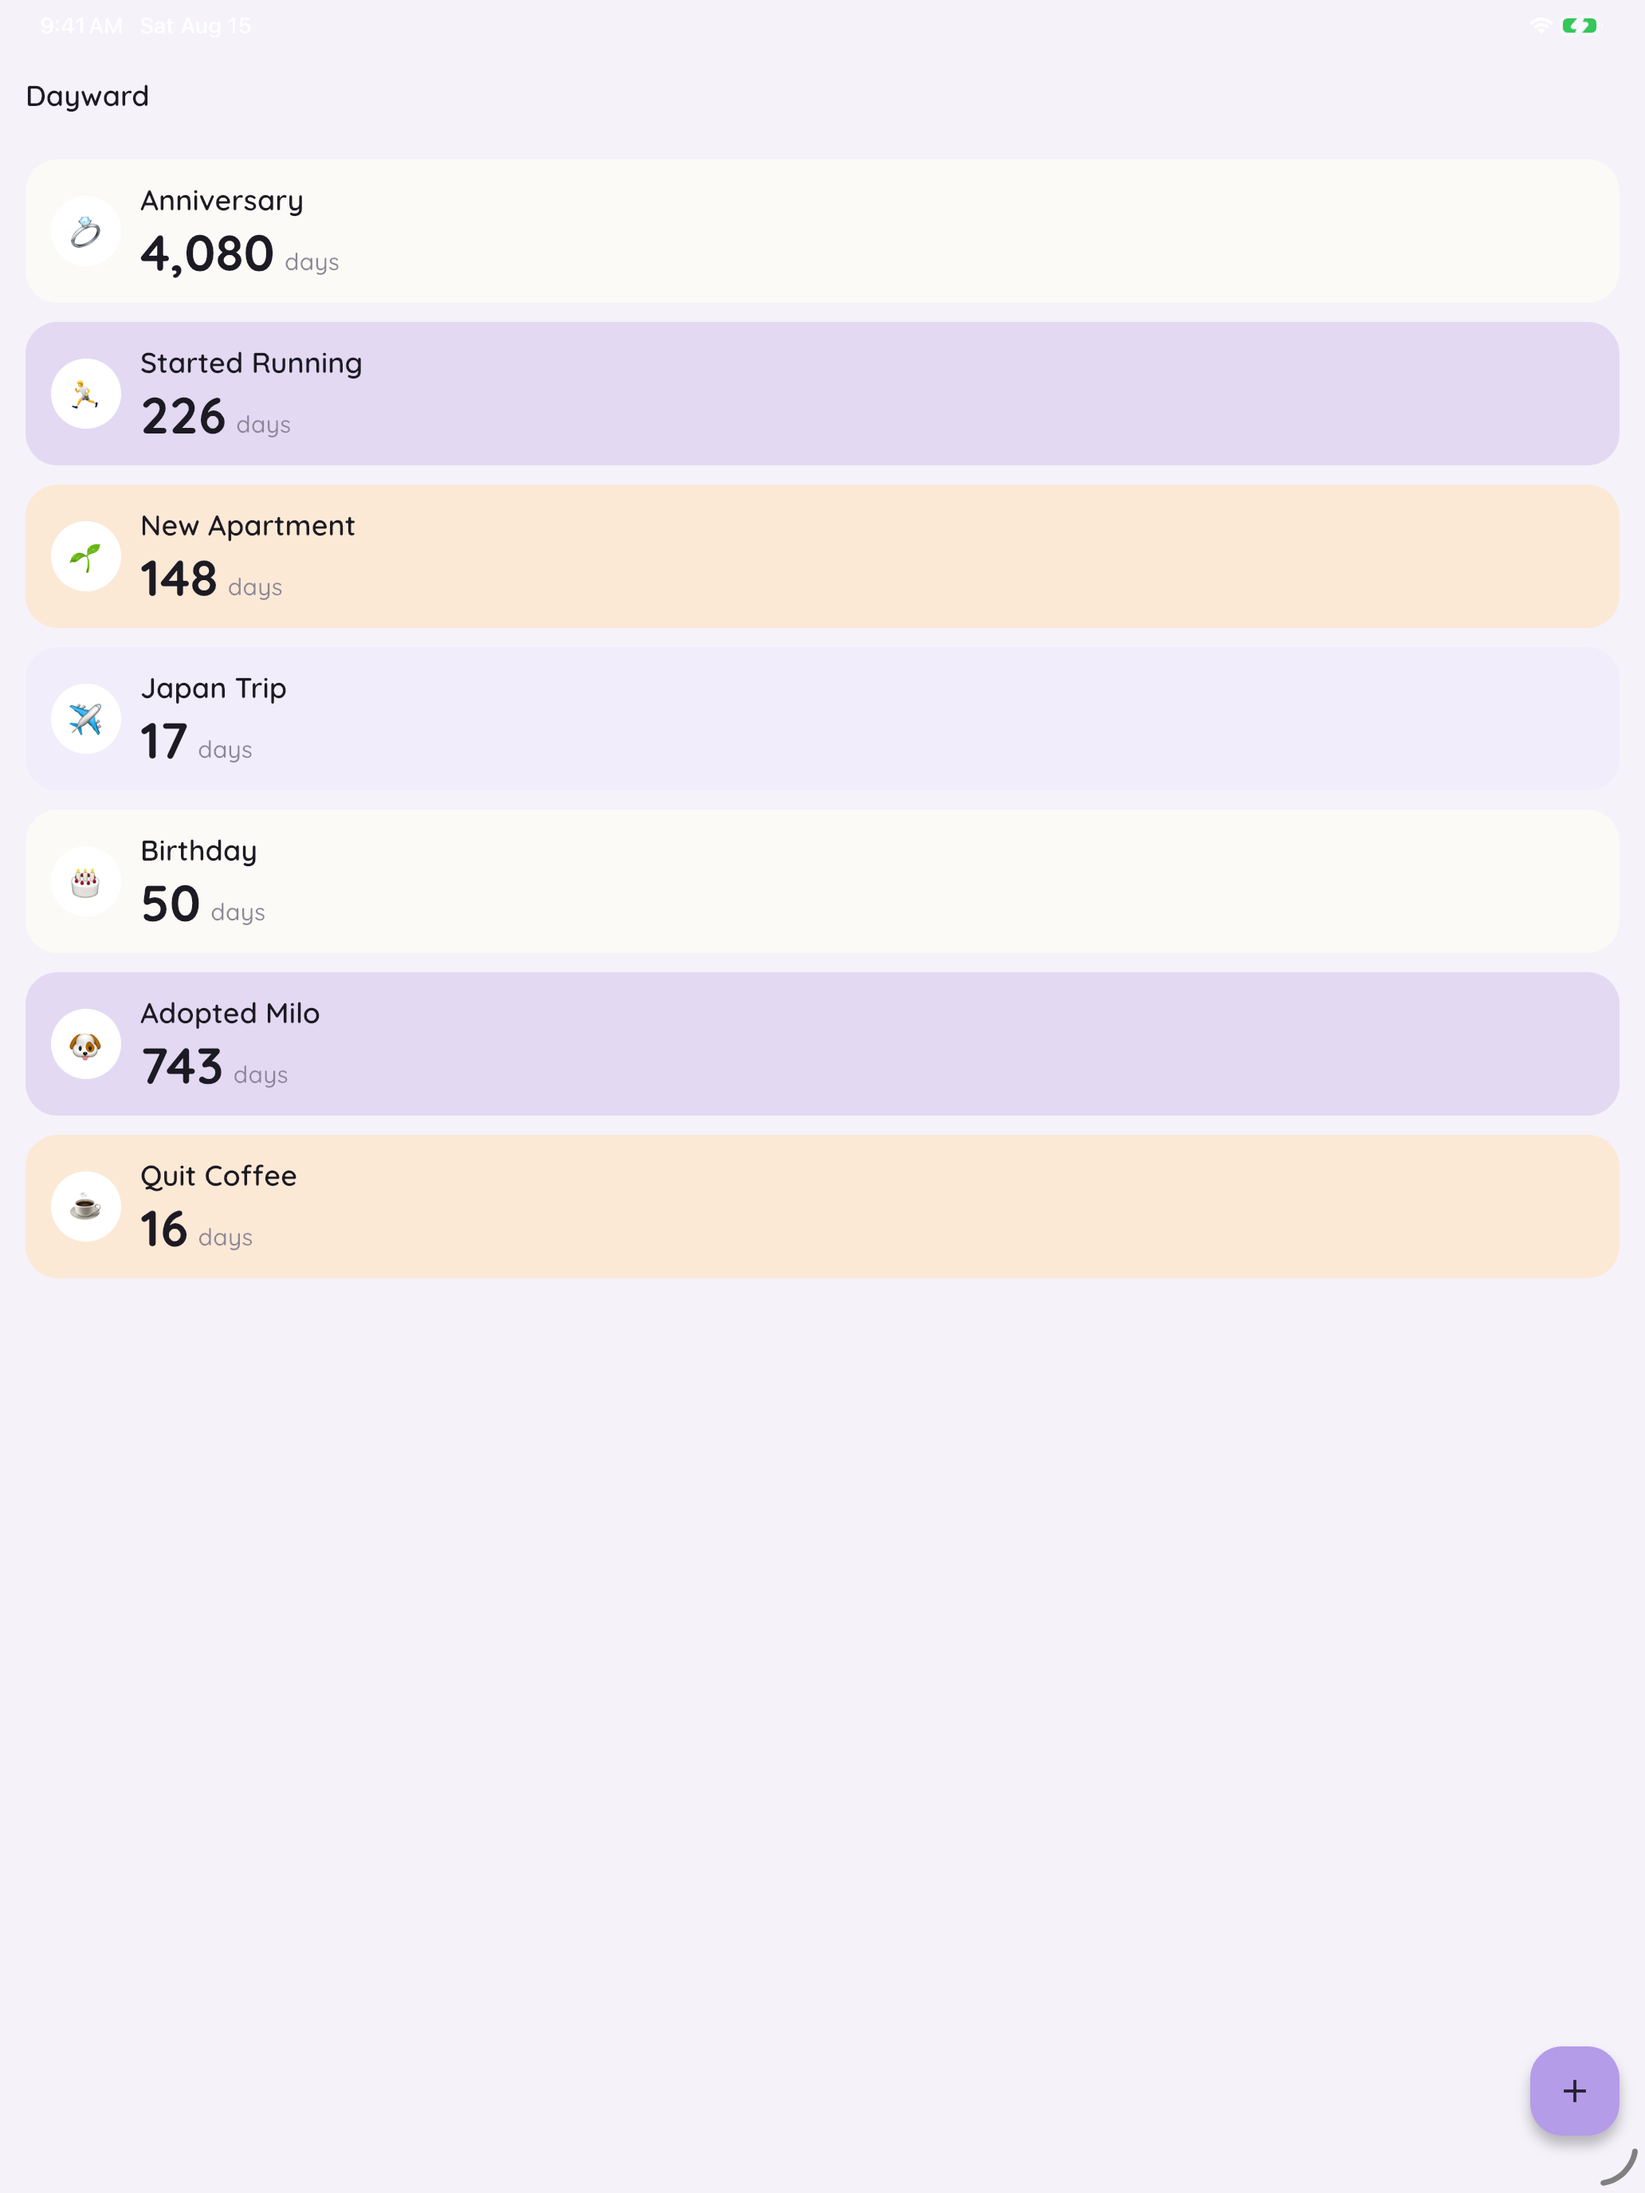
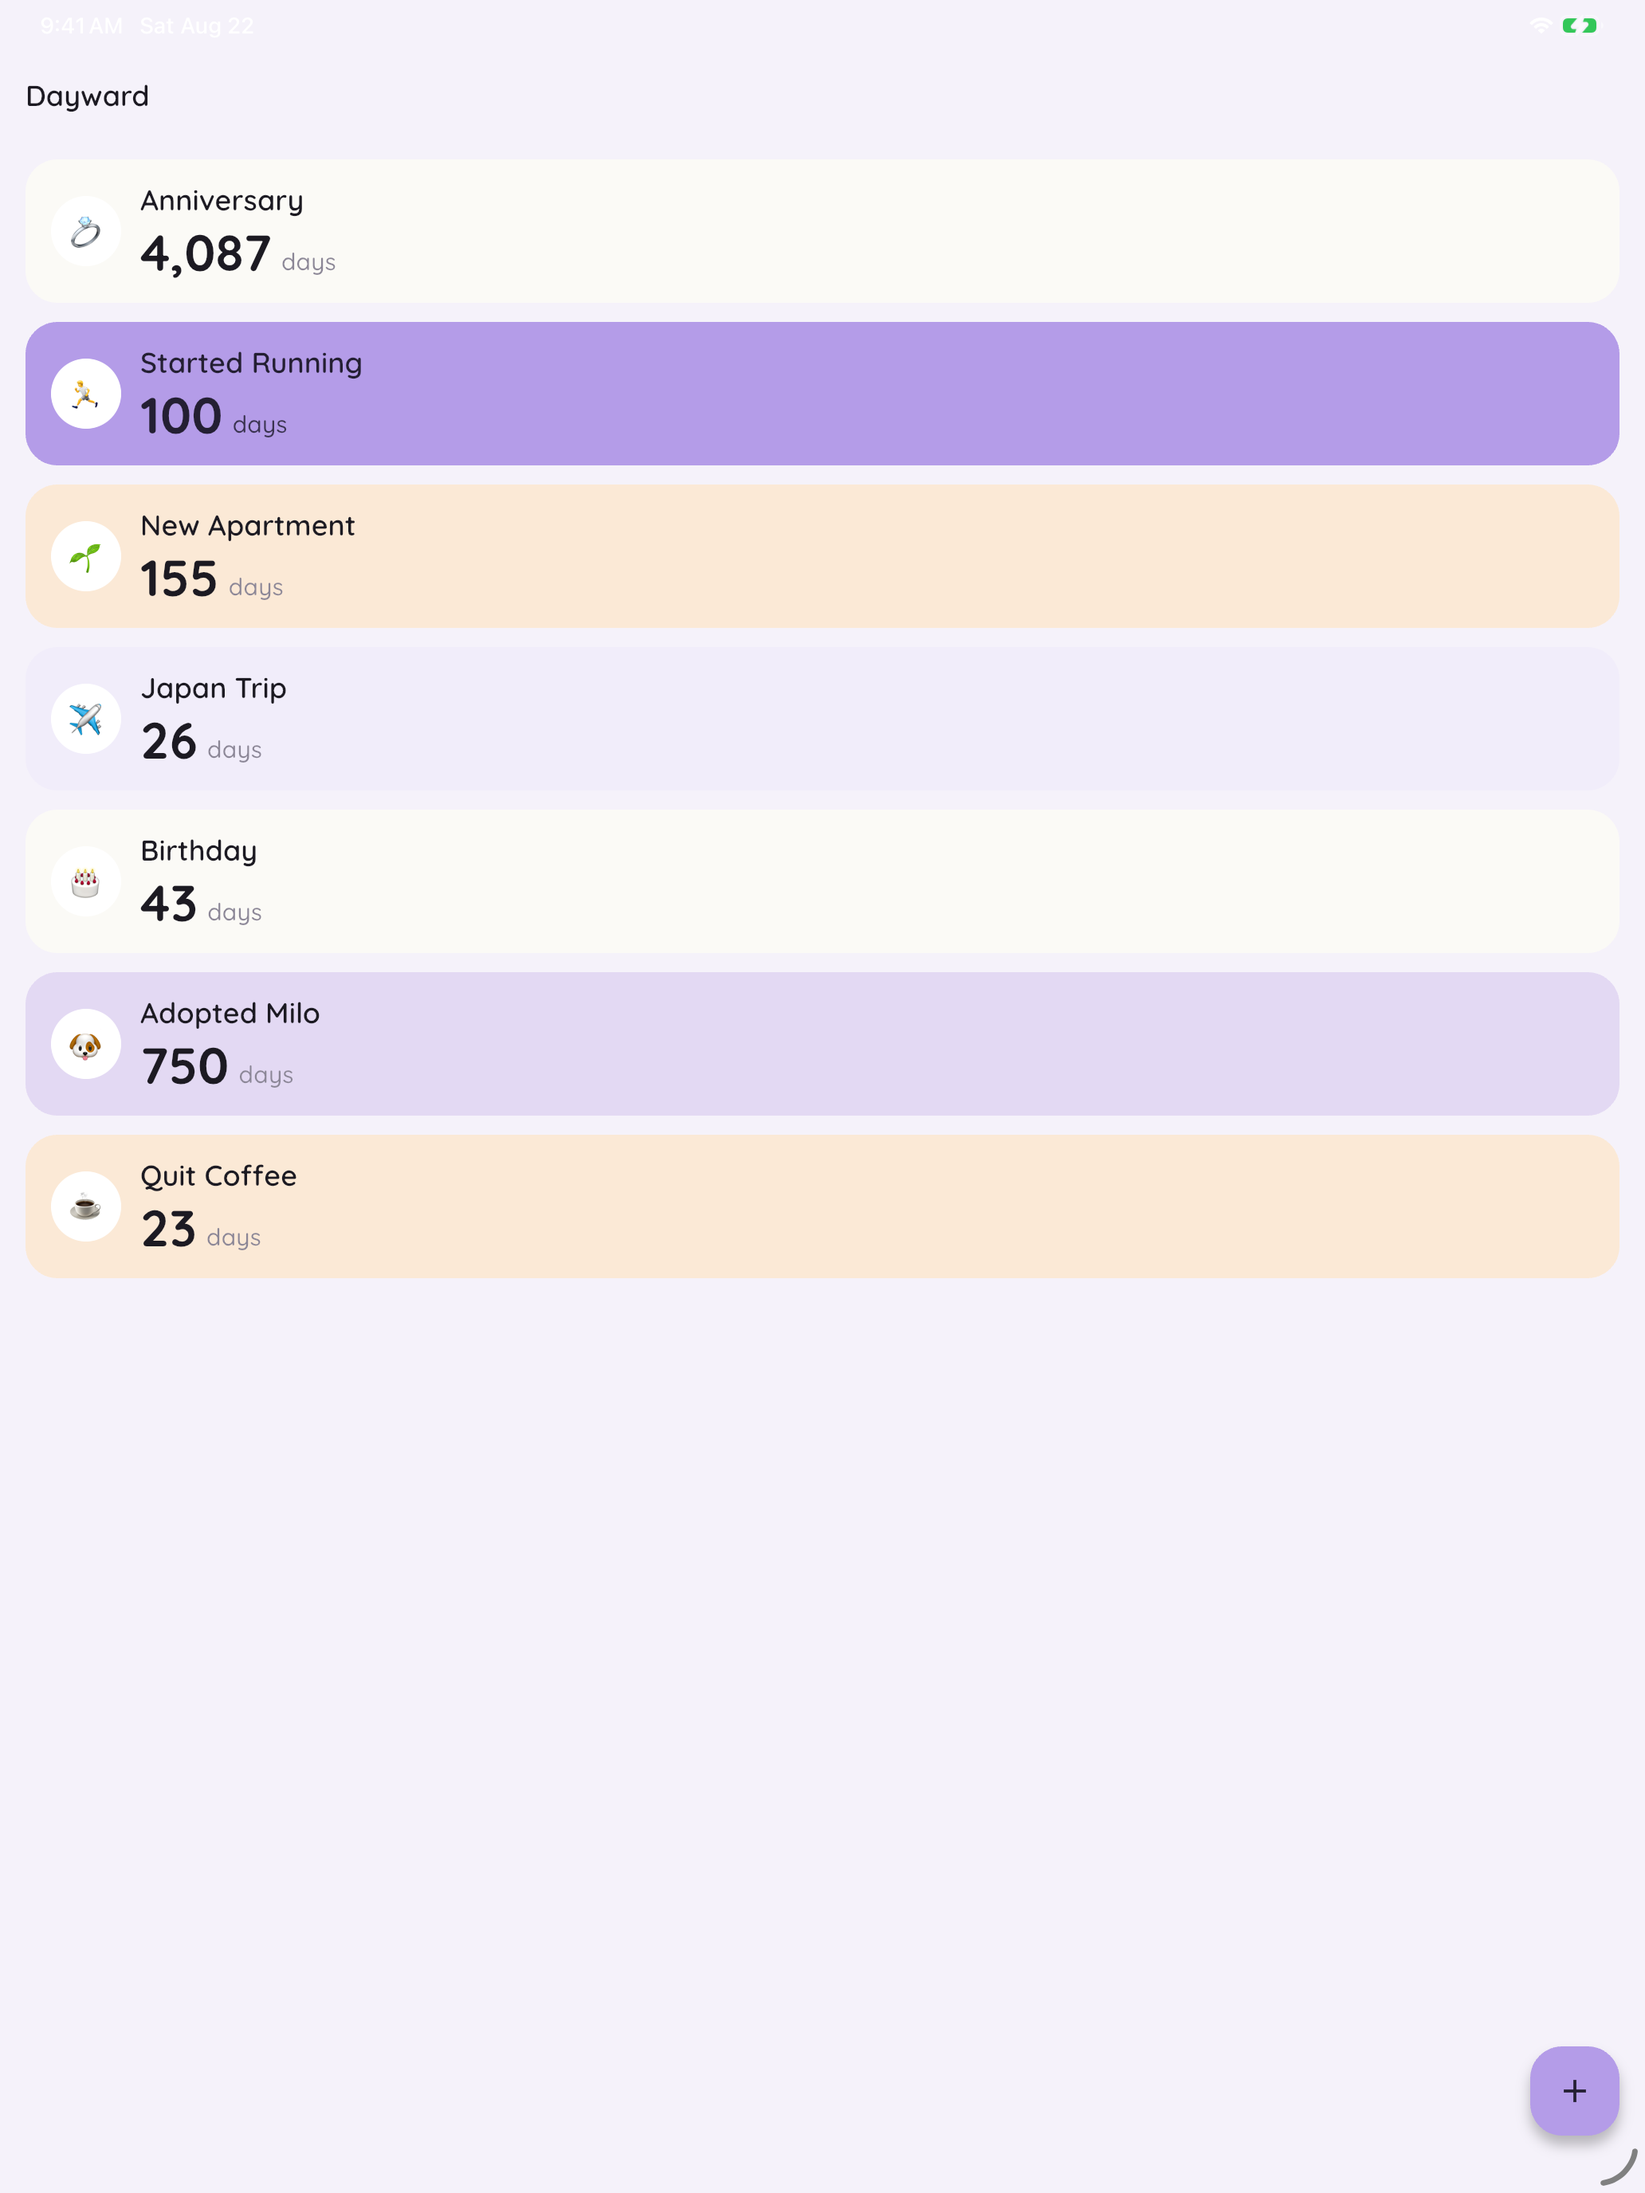
Refresh App Store screenshots and metadata for 1.1.0
The captured screenshots predated Phases 21 through 26 and showed none of
what the release is about. Recaptured at both required sizes with a demo
set that includes a milestone day, so the treatment this release adds is
actually visible in the listing.

Three fixes to the capture process, each of which had already gone wrong
once:

The seeding script still wrote featured_event_id.txt, dead since Phase 21
removed the featured-event concept, and reported a "(featured)" marker
that no longer means anything. It now reports which events land on a
milestone instead.

Two demo events collided on the same date, because one was pinned relative
to today and the other absolute. Most stay absolute so their "Since June
14, 2015" lines read like real events, but the milestone one has to be
relative — an absolute date would show the milestone treatment for exactly
one day and never again.

Screenshots have to be captured from a debug build, since Flutter won't
run release or profile mode on a simulator, and a debug build shows the
developer bug icon in the app bar. Rather than editing it out before each
capture, the button is now also gated on a SCREENSHOT_MODE dart-define.

Also records in the README that only one simulator may be booted while
seeding — `booted` is otherwise ambiguous and the script wrote into a
leftover iPad on the first attempt — and why a listing wants at least
three screenshots rather than the required minimum of one.
[…]

diff --git a/tool/seed_demo_events.dart b/tool/seed_demo_events.dart
@@ -9,8 +9,8 @@
 //
 // Terminate-and-relaunch is required: LocalEventRepository caches events in
 // memory, so a running app would overwrite whatever this writes. Relaunching
-// also makes EventsNotifier.build() push the featured event through the
-// widget bridge, so the Home Screen widget picks up the demo data too.
+// also makes EventsNotifier.build() push the whole event list through the
+// widget bridge, so the widget's event picker sees the demo data too.
 
 import 'dart:convert';
 import 'dart:io';
@@ -24,25 +24,38 @@ const bundleId = 'net.leerichardson.dayscounter';
 /// pulls in package:flutter, which a plain `dart run` script can't load.
 const cardTintCount = 4;
 
-/// The demo events, in display order. Dates are absolute rather than
-/// relative to today so the "Since June 14, 2015" lines read like real
-/// events; the day counts drift by however long it's been since this list
-/// was last revised, which doesn't matter for a screenshot.
+/// The demo events, in display order.
+///
+/// Most dates are absolute so the "Since June 14, 2015" lines read like real
+/// events; their day counts drift by however long it's been since this list
+/// was revised, which doesn't matter for a screenshot.
+///
+/// Two are pinned relative to today instead, and have to be: a milestone
+/// card only takes the accent treatment on an exact count, so an absolute
+/// date would show it for one day and never again.
 final demoEvents = <_Demo>[
-  _Demo('Anniversary', DateTime(2015, 6, 14), CountDirection.since, '💍'),
-  _Demo('Started Running', DateTime(2026, 1, 1), CountDirection.since, '🏃'),
-  _Demo('New Apartment', DateTime(2026, 3, 20), CountDirection.since, '🌱'),
-  _Demo('Japan Trip', DateTime(2026, 9, 1), CountDirection.until, '✈'),
-  _Demo('Birthday', DateTime(2026, 10, 4), CountDirection.until, '🎂'),
-  _Demo('Adopted Milo', DateTime(2024, 8, 2), CountDirection.since, '🐶'),
-  _Demo('Quit Coffee', DateTime(2026, 7, 30), CountDirection.since, '☕'),
+  _Demo('Anniversary', CountDirection.since, '💍', date: DateTime(2015, 6, 14)),
+  // Exactly 100 days — renders as a milestone.
+  _Demo('Started Running', CountDirection.since, '🏃', daysAgo: 100),
+  _Demo('New Apartment', CountDirection.since, '🌱', date: DateTime(2026, 3, 20)),
+  // A countdown far enough out to read as an ordinary card, and clear of
+  // Birthday's fixed date so the two don't collide.
+  _Demo('Japan Trip', CountDirection.until, '✈', daysAhead: 26),
+  _Demo('Birthday', CountDirection.until, '🎂', date: DateTime(2026, 10, 4)),
+  _Demo('Adopted Milo', CountDirection.since, '🐶', date: DateTime(2024, 8, 2)),
+  _Demo('Quit Coffee', CountDirection.since, '☕', date: DateTime(2026, 7, 30)),
 ];
 
-/// Which event the widget shows (index into [demoEvents]).
-const featuredIndex = 0;
-
 class _Demo {
-  _Demo(this.title, this.date, this.direction, this.emoji);
+  _Demo(
+    this.title,
+    this.direction,
+    this.emoji, {
+    DateTime? date,
+    int? daysAgo,
+    int? daysAhead,
+  }) : date = date ??
+            dateOffsetBy(daysAhead ?? -(daysAgo ?? 0));
 
   final String title;
   final DateTime date;
@@ -118,21 +131,17 @@ Future<void> main(List<String> args) async {
   await File('${documents.path}/events.json').writeAsString(
     jsonEncode(events.map((e) => e.toJson()).toList()),
   );
-  await File(
-    '${documents.path}/featured_event_id.txt',
-  ).writeAsString(events[featuredIndex].id);
-
   stdout.writeln('Wrote ${events.length} demo events to ${documents.path}');
   for (var i = 0; i < events.length; i++) {
     final event = events[i];
     final days = event.direction == CountDirection.since
         ? daysSince(event.date)
         : daysUntil(event.date);
-    final featured = i == featuredIndex ? '  (featured)' : '';
+    final milestone = milestoneFor(days) == null ? '' : '  (milestone)';
     stdout.writeln(
       '  ${event.emoji} ${event.title}: ${dayCountLabel(days)}, '
       '${event.direction == CountDirection.since ? 'since' : 'until'} '
-      '${formatDate(event.date)}$featured',
+      '${formatDate(event.date)}$milestone',
     );
   }
   stdout.writeln('\nRelaunch the app to pick these up:');

diff --git a/lib/screens/event_list_screen.dart b/lib/screens/event_list_screen.dart
@@ -9,6 +9,10 @@ import '../widgets/event_card.dart';
 import 'debug_menu_screen.dart';
 import 'event_edit_screen.dart';
 
+/// Set with `--dart-define=SCREENSHOT_MODE=true` when capturing App Store
+/// screenshots. See README, "Refresh the screenshots".
+const _hideDevAffordances = bool.fromEnvironment('SCREENSHOT_MODE');
+
 class EventListScreen extends ConsumerWidget {
   const EventListScreen({super.key});
 
@@ -62,8 +66,11 @@ class EventListScreen extends ConsumerWidget {
         title: const Text('Dayward'),
         actions: [
           // kDebugMode is a const, so this branch and the screen behind it
-          // are tree-shaken out of release builds.
-          if (kDebugMode)
+          // are tree-shaken out of release builds. The extra flag exists
+          // only for App Store screenshots: those have to be captured from
+          // a debug build, because Flutter won't run release or profile
+          // mode on a simulator, and a bug icon can't ship in a listing.
+          if (kDebugMode && !_hideDevAffordances)
             IconButton(
               icon: const Icon(Icons.bug_report_outlined),
               tooltip: 'Debug',

diff --git a/README.md b/README.md
@@ -137,8 +137,23 @@ xcrun simctl launch booted net.leerichardson.dayscounter
 
 The script must terminate the app first (it does this itself) because
 `LocalEventRepository` caches events in memory and would overwrite the
-file on its next save. Relaunching also pushes the featured event through
-the widget bridge, so the Home Screen widget picks up the demo data.
+file on its next save. Relaunching also pushes the whole event list
+through the widget bridge, so the widget's event picker sees the demo
+data.
+
+**Build with `--dart-define=SCREENSHOT_MODE=true`.** Screenshots have to
+come from a debug build, because Flutter won't run release or profile
+mode on a simulator, and a debug build shows the developer bug icon in the
+app bar — which can't appear in a store listing. That flag hides it.
+
+**Only one simulator may be booted at a time.** `booted` is ambiguous
+otherwise, and the seed script will silently write into whichever device
+`simctl` picks — including an iPad you left running from the previous
+capture. `xcrun simctl list devices booted` before seeding.
+
+One demo event is pinned to an exact relative offset (100 days) so the
+milestone treatment actually appears in the capture. An absolute date
+would show it for a single day and never again.
 
 Then clean up the status bar and capture:
 
@@ -148,6 +163,19 @@ xcrun simctl status_bar booted override --time "9:41" --dataNetwork wifi \
   --batteryState charged --batteryLevel 100
 xcrun simctl io booted screenshot app_store_assets/screenshots/iphone-6.7-event-list.png
 ```
+
+At least three iPhone screenshots are worth uploading, not the minimum
+one. App Store search results fill an inline preview row from the first
+few portrait screenshots, and with a single screenshot that row tends not
+to render at all — the listing then appears with no images beneath it.
+
+Widget screenshots are allowed and worth including, with two constraints:
+keep other apps' icons and content out of frame, and capture them on a
+**physical device**, because widget configuration doesn't work on the
+simulator (see PROJECT_PLAN.md Phase 21g). A device capture won't match an
+accepted size, so compose it onto a correctly sized canvas rather than
+resizing it — resizing distorts the aspect ratio, which is the rejection
+trap below.
 
 Repeat on `iPad Pro 13-inch (M5)` (2064x2752) for
 `ipad-13-event-list.png`, omitting the cellular flags. Shut down the first

diff --git a/app_store_assets/metadata.md b/app_store_assets/metadata.md
@@ -41,7 +41,11 @@ upcoming event, or count up from a meaningful date.
   one (e.g. days to a trip)
 - See your count at a glance from your Home Screen with a widget that
   updates automatically
-- Choose which event your widget features
+- Give each widget its own event, and stack several to swipe between them
+- Enter a date from the calendar, or just say how many days away it is
+- Drag your events into whatever order suits you
+- Get a reminder on the morning a countdown arrives
+- Milestone days look the part — reaching one changes how the event reads
 - Everything stays on your device — no account, no tracking, no ads
 
 ## Keywords
@@ -105,3 +109,30 @@ implemented cryptography.
   recorded here)
 
 No demo account needed; the app has no login/accounts.
+
+## What's New in This Version (1.1.0)
+
+Release notes for the version page in App Store Connect. Written for
+someone who already has 1.0.1 installed.
+
+```text
+Widgets can now be set to different events, so you can stack a few and
+swipe between them.
+
+Reaching a milestone looks like it. A day you've been counting down to
+now reads "Today", and round-number days stand out on the widget and in
+your list.
+
+Turn on a reminder and Dayward will tell you the morning a countdown
+arrives. Reminders are scheduled on your device and say nothing about
+which event they're for.
+
+Also: enter a date as "in 30 days" instead of picking it off a calendar,
+drag events into the order you want, and the New Event screen is much
+easier to read in dark mode.
+```
+
+Note on the reminder wording above: the notification text really is
+generic ("Dayward — Today's the day"), and the release note says so
+deliberately rather than overselling it. It's a lock-screen privacy
+decision, not a limitation to hide.
